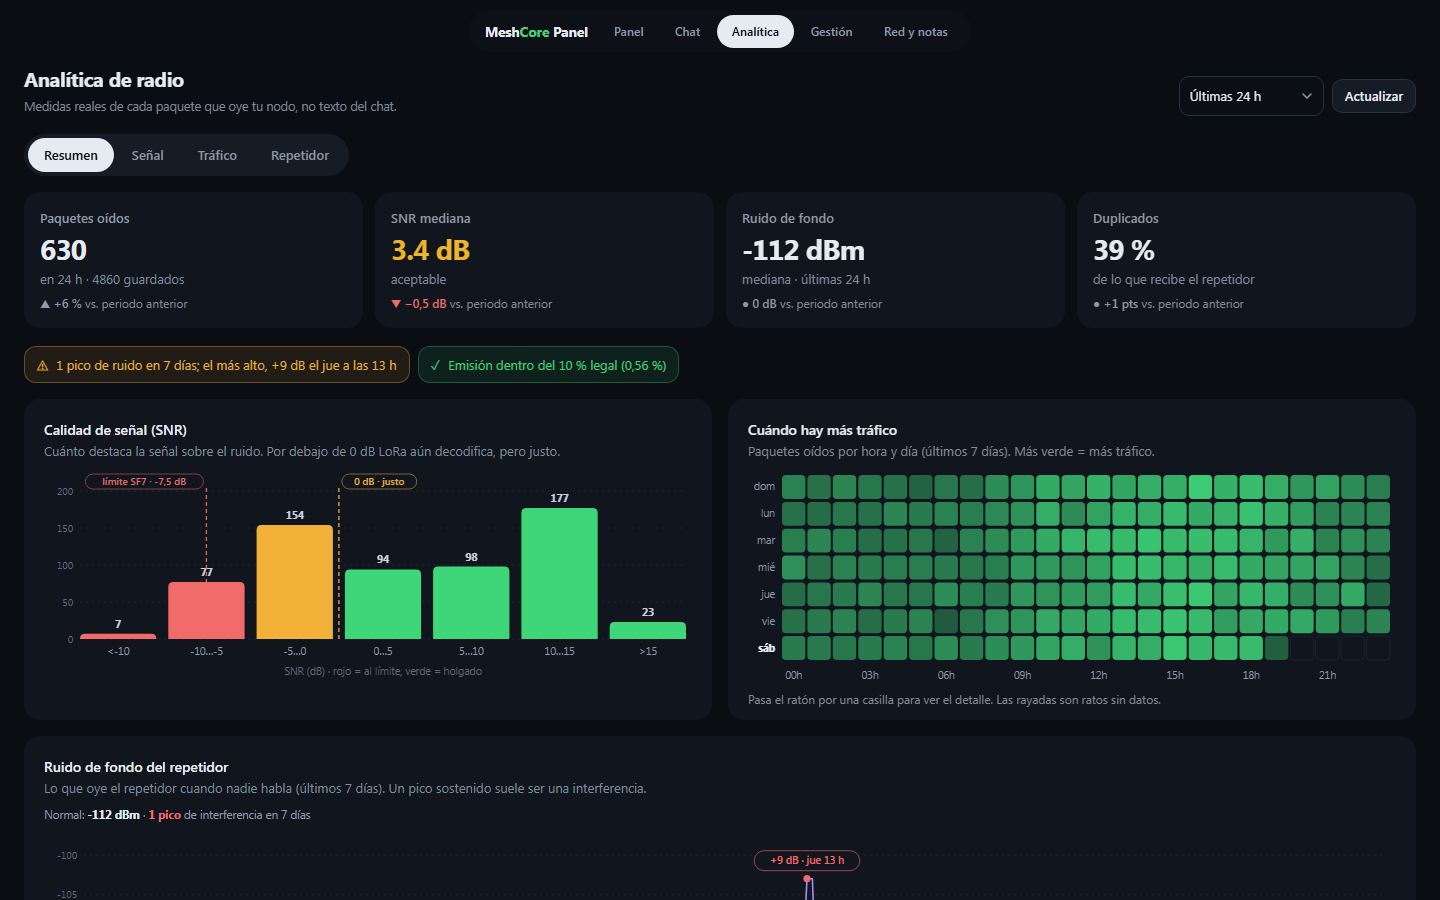
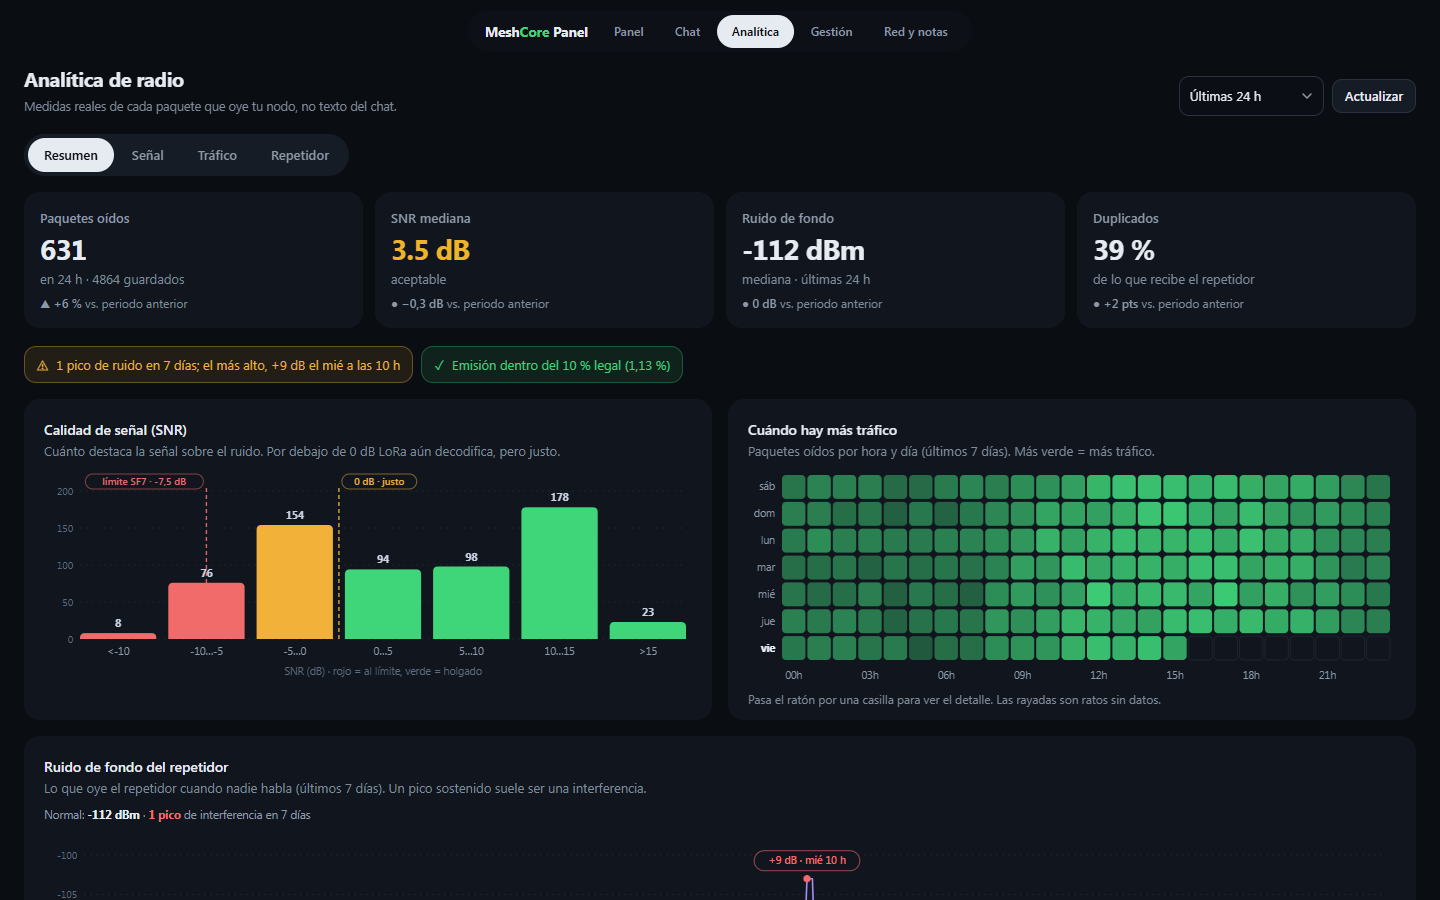
Capturas del README al dia; v1.36.1

diff --git a/bridge/panel-principal.js b/bridge/panel-principal.js
@@ -13,7 +13,7 @@ const CFG=Object.assign({
 }, window.PANEL_CONFIG||{});
 const REPEATER_POS=[CFG.repetidor.lat, CFG.repetidor.lon];
 const REP_NOMBRE=CFG.repetidor.nombre;
-const PANEL_VERSION='1.36.0';
+const PANEL_VERSION='1.36.1';
 $('#panelVersion').textContent='v'+PANEL_VERSION;
 // Sin config.js propio el panel funciona, pero con nombres de ejemplo que no
 // cuadran con ninguna radio: avisarlo para que no parezca un fallo.

diff --git a/bridge/meshcore_ble_gateway.py b/bridge/meshcore_ble_gateway.py
@@ -90,7 +90,7 @@ def politica_cli(cmd: str, confirmed: bool):
         return 409, f'CONFIRMAR: {info.cli} - {info.note or info.label}'
     return None
 
-PANEL_VERSION = '1.36.0'
+PANEL_VERSION = '1.36.1'
 PORT = int(os.getenv('MESHCORE_BLE_GATEWAY_PORT', '8780'))
 # 0.0.0.0 por defecto porque el relay del PC entra por la LAN. Si el relay
 # corre en la propia Pi, MESHCORE_BIND=127.0.0.1 deja el puerto solo para nginx.

diff --git a/README.md b/README.md
@@ -58,7 +58,7 @@ navegador ──HTTPS──> nginx (TLS + login) ──> gateway 127.0.0.1:8780 
 - El **relay** corre en un PC con Bluetooth cerca de los companion y es su único dueño.
 - El **repetidor** se gestiona por LoRa a través de un companion: no necesita Bluetooth.
 
-Versión actual: **1.36.0** · cambios en [`CHANGELOG.md`](CHANGELOG.md).
+Versión actual: **1.36.1** · cambios en [`CHANGELOG.md`](CHANGELOG.md).
 
 ## Requisitos
 

diff --git a/CHANGELOG.md b/CHANGELOG.md
@@ -3,6 +3,12 @@
 Formato basado en [Keep a Changelog](https://keepachangelog.com/es-ES/1.1.0/) y versiones
 según [SemVer](https://semver.org/lang/es/).
 
+## [1.36.1] - 2026-11-20
+
+### Documentación
+- Capturas del README regeneradas con el panel actual (chat con Public / Canal 1 /
+  Canal 2, botón de enlaces animados en el mapa).
+
 ## [1.36.0] - 2026-11-20
 
 ### Mejorado
